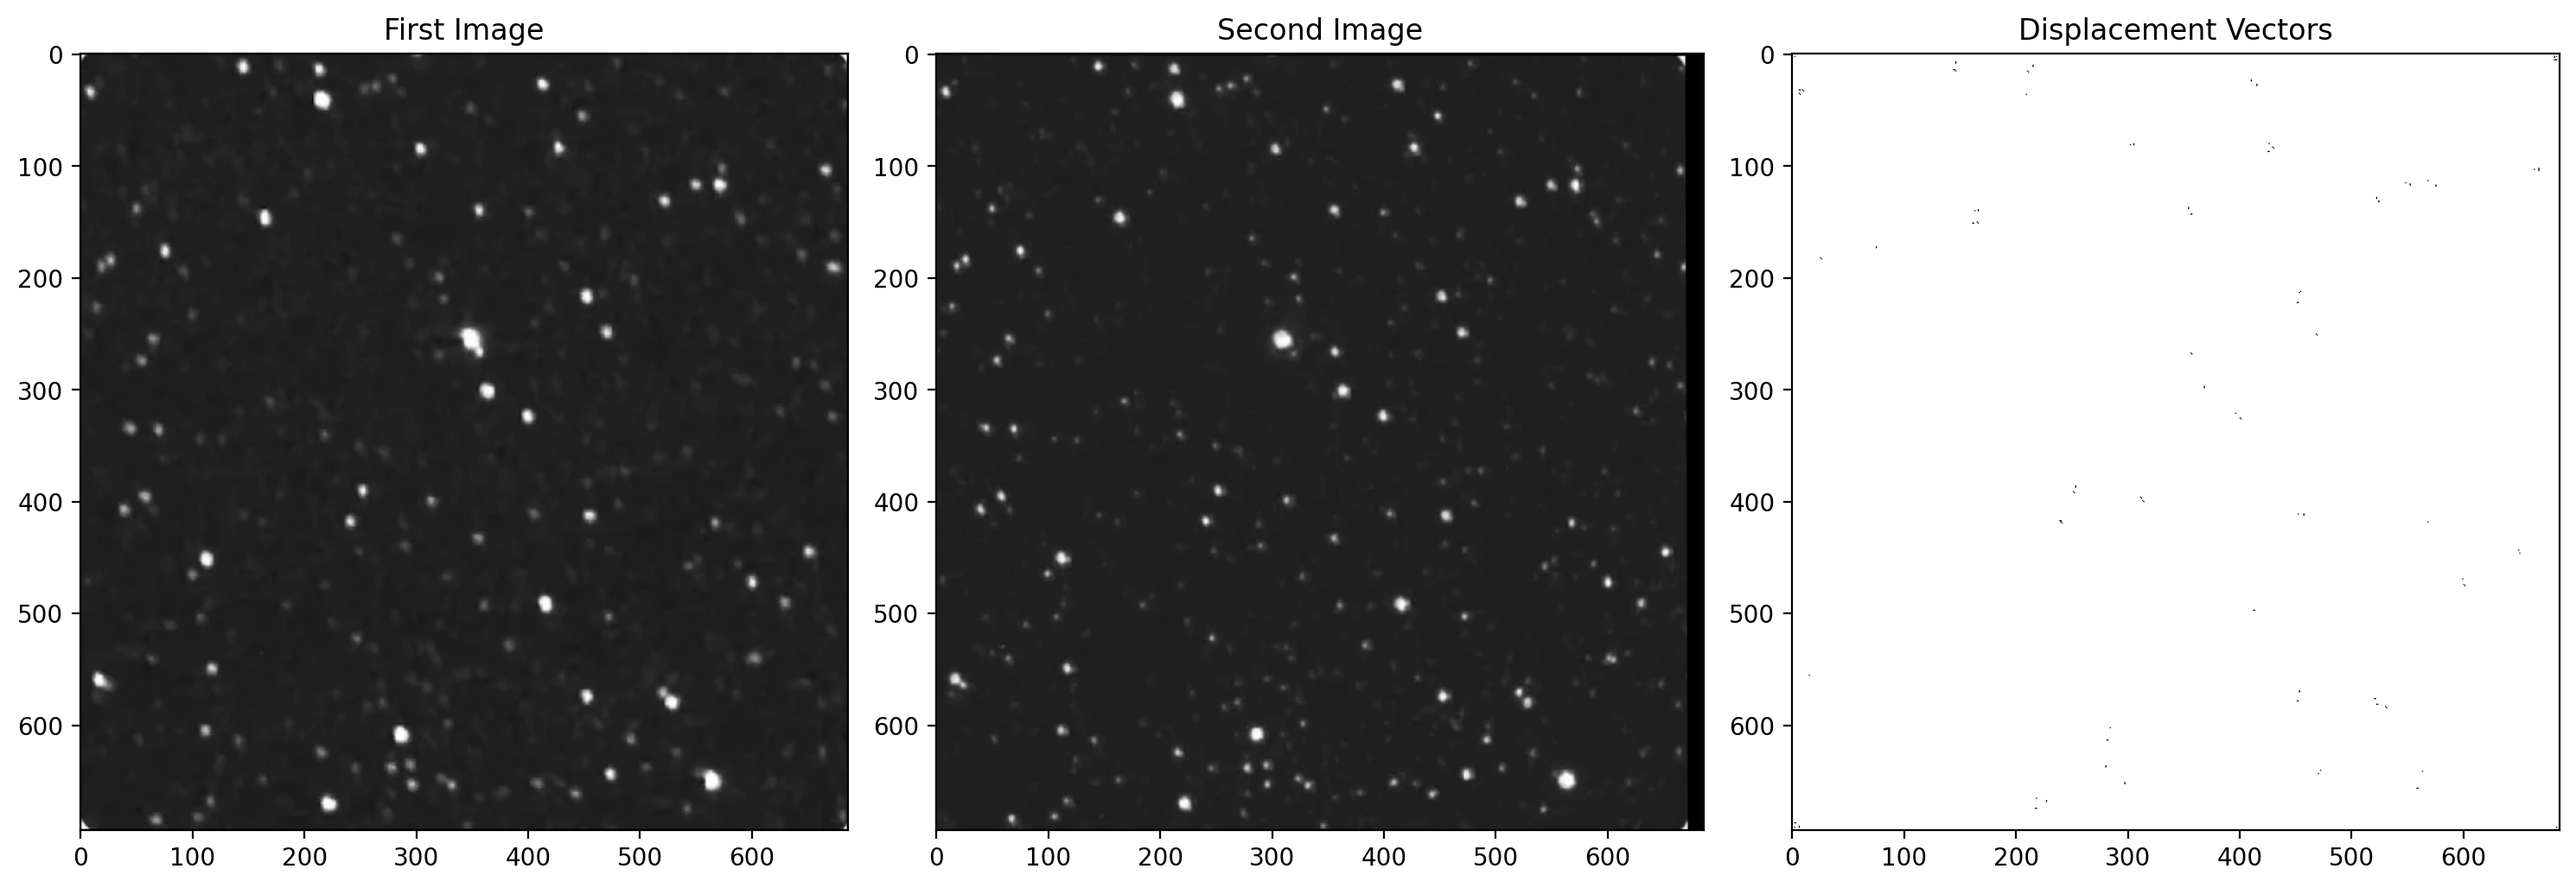
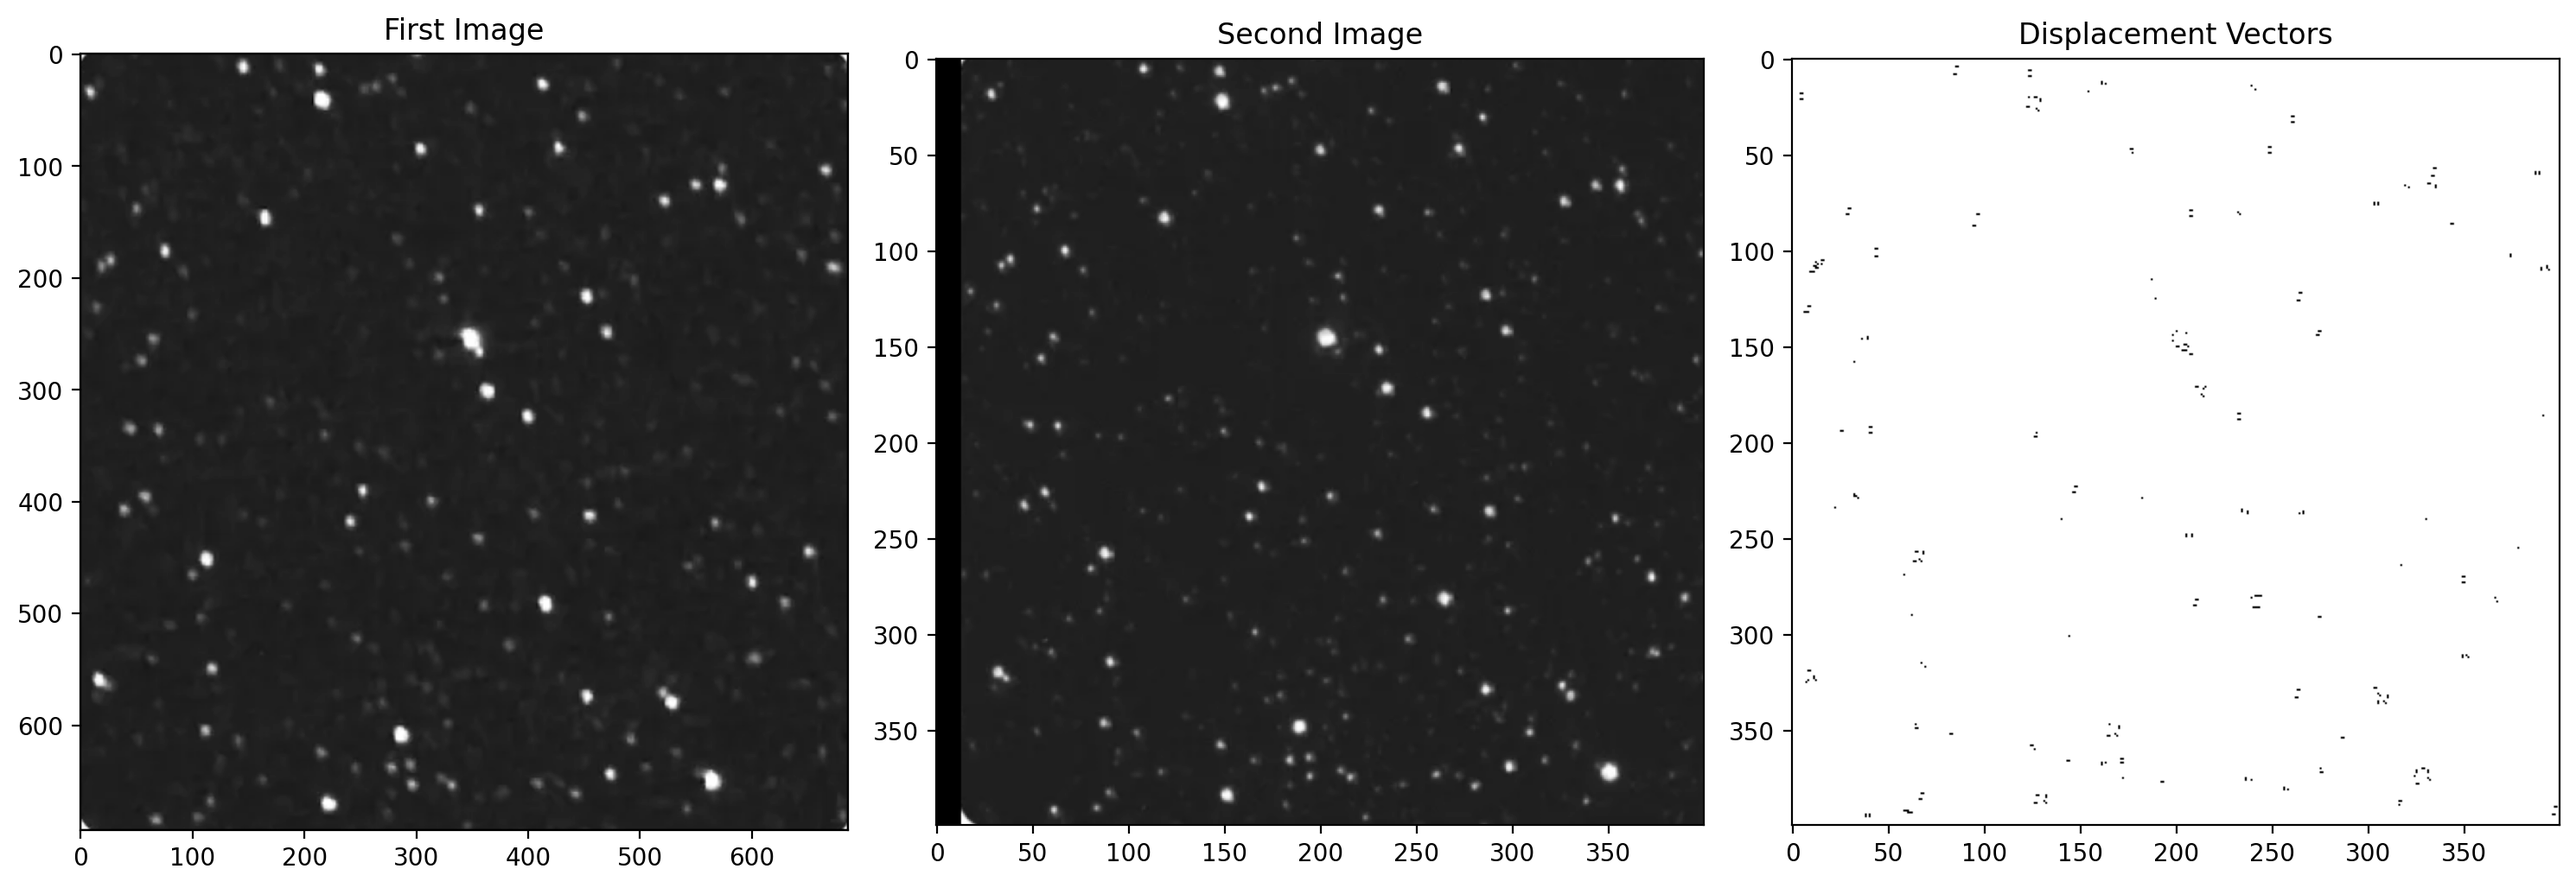
align image with user need

diff --git a/lucasKanade.py b/lucasKanade.py
@@ -2,45 +2,70 @@ import numpy as np
 import cv2
 import matplotlib.pyplot as plt
 
+global points_img1, points_img2
+points_img1, points_img2 = [], []
+
 def inRanges(coords, limits):
     x, y = coords
     X_limit, Y_limit = limits
     return 0 <= x and x <= X_limit and 0 <= y and y <= Y_limit
 
-def align_images(img1, img2):
-    # Ensure images are 3-channel (BGR) before conversion
-    if len(img1.shape) == 2:  # If grayscale, convert to 3-channel
-        img1 = cv2.cvtColor(img1, cv2.COLOR_GRAY2BGR)
-    if len(img2.shape) == 2:
-        img2 = cv2.cvtColor(img2, cv2.COLOR_GRAY2BGR)
+def reset_points():
+    global points_img1, points_img2
+    points_img1, points_img2 = [], []
 
-    # Convert images to grayscale
-    gray1 = cv2.cvtColor(img1, cv2.COLOR_BGR2GRAY)
-    gray2 = cv2.cvtColor(img2, cv2.COLOR_BGR2GRAY)
+def resize_with_aspect_ratio(image, width):
+    (h, w) = image.shape[:2]
+    aspect_ratio = width / w
+    new_dim = (width, int(h * aspect_ratio))
+    return cv2.resize(image, new_dim, interpolation=cv2.INTER_AREA)
 
-    # Detect ORB keypoints and descriptors
-    orb = cv2.ORB_create(5000)
-    kp1, des1 = orb.detectAndCompute(gray1, None)
-    kp2, des2 = orb.detectAndCompute(gray2, None)
+# Mouse click event handler
+def select_points(event, x, y, flags, param):
+    global points_img1, points_img2, selecting_img1
+    if event == cv2.EVENT_LBUTTONDOWN:
+        if selecting_img1:
+            points_img1.append((x, y))
+            print(f"Point selected in Image 1: {x}, {y}")
+        else:
+            points_img2.append((x, y))
+            print(f"Point selected in Image 2: {x}, {y}")
 
-    # Match features using FLANN Matcher
-    bf = cv2.BFMatcher(cv2.NORM_HAMMING, crossCheck=True)
-    matches = bf.match(des1, des2)
-    matches = sorted(matches, key=lambda x: x.distance)
-
-    # Extract the best matching points
-    src_pts = np.float32([kp1[m.queryIdx].pt for m in matches]).reshape(-1, 1, 2)
-    dst_pts = np.float32([kp2[m.trainIdx].pt for m in matches]).reshape(-1, 1, 2)
-
-    # Compute the homography matrix
-    H, _ = cv2.findHomography(dst_pts, src_pts, cv2.RANSAC, 10.0)
-
-    # Warp second image to align with the first
-    aligned_img2 = cv2.warpPerspective(img2, H, (img1.shape[1], img1.shape[0]))
-
+# Function to manually align images
+def align_images(img1, img2, width=600):
+    global selecting_img1
+    reset_points()
+    img1_resized = resize_with_aspect_ratio(img1, width)
+    img2_resized = resize_with_aspect_ratio(img2, width)
+    
+    selecting_img1 = True
+    cv2.imshow("Select a Point in Image 1", img1_resized)
+    cv2.setMouseCallback("Select a Point in Image 1", select_points)
+    cv2.waitKey(0)
+    cv2.destroyAllWindows()
+    
+    selecting_img1 = False
+    cv2.imshow("Select a Point in Image 2", img2_resized)
+    cv2.setMouseCallback("Select a Point in Image 2", select_points)
+    cv2.waitKey(0)
+    cv2.destroyAllWindows()
+    
+    if len(points_img1) < 1 or len(points_img2) < 1:
+        print("A single point is needed for alignment.")
+        return None
+    
+    p1 = np.array(points_img1[0]) * (img1.shape[1] / img1_resized.shape[1], img1.shape[0] / img1_resized.shape[0])
+    p2 = np.array(points_img2[0]) * (img2.shape[1] / img2_resized.shape[1], img2.shape[0] / img2_resized.shape[0])
+    
+    translation_vector = p1 - p2
+    translation_matrix = np.float32([[1, 0, translation_vector[0]], [0, 1, translation_vector[1]]])
+    aligned_img2 = cv2.warpAffine(img2, translation_matrix, (img1.shape[1], img1.shape[0]))
+    aligned_img2 = cv2.resize(aligned_img2, (400, 400))
     return aligned_img2
 
+
 def optical_flow(old_frame, new_frame, window_size, min_quality = 0.01):
+    old_frame = cv2.resize(old_frame, (400, 400))
     max_corners = 10000
     min_distance = 1
     feature_list = cv2.goodFeaturesToTrack(old_frame, max_corners, min_quality, min_distance)
@@ -56,17 +81,15 @@ def optical_flow(old_frame, new_frame, window_size, min_quality = 0.01):
     fx = cv2.filter2D(old_frame_norm, -1, kernel_x)
     fy = cv2.filter2D(old_frame_norm, -1, kernel_y)
     
-    # Fix: Calculate temporal gradient properly as the difference between frames
     ft = new_frame_norm - old_frame_norm
 
     u = np.zeros(old_frame.shape)
     v = np.zeros(new_frame.shape)
 
     for feature in feature_list:
-        j, i = feature.ravel()  # j is x (column), i is y (row)
+        j, i = feature.ravel()
         i, j = int(i), int(j)
         
-        # Check if the window is completely within image boundaries
         if i-w < 0 or i+w+1 > old_frame.shape[0] or j-w < 0 or j+w+1 > old_frame.shape[1]:
             continue
 
@@ -74,21 +97,17 @@ def optical_flow(old_frame, new_frame, window_size, min_quality = 0.01):
         I_y = fy[i-w:i+w+1, j-w:j+w+1].flatten()
         I_t = ft[i-w:i+w+1, j-w:j+w+1].flatten()
 
-        b = np.reshape(-I_t, (I_t.shape[0], 1))  # Negative temporal gradient for correct flow direction
+        b = np.reshape(-I_t, (I_t.shape[0], 1))
         A = np.vstack((I_x, I_y)).T
         
-        # Check if A is well-conditioned before solving
         if np.linalg.matrix_rank(A) < 2:
             continue
             
-        try:
-            U = np.matmul(np.linalg.pinv(A), b)
-            # Remove debugging print statement
-            u[i, j] = U[0][0]
-            v[i, j] = U[1][0]
-        except np.linalg.LinAlgError:
-            # Skip if matrix is singular or other numerical issues
-            continue
+    
+        U = np.matmul(np.linalg.pinv(A), b)
+        u[i, j] = U[0][0]
+        v[i, j] = U[1][0]
+        
 
     return (u, v)
 
@@ -97,14 +116,13 @@ def drawOnFrame(frame, U, V, output_file):
     
     height, width = U.shape
     
-    # Create a copy to avoid modifying the original
     result_frame = frame.copy()
     
     for i in range(height):
         for j in range(width):
-            u, v = V[i][j], U[i][j]  # Swap u and v to match OpenCV coordinate system
+            u, v = V[i][j], U[i][j]
 
-            if abs(u) > 0.1 or abs(v) > 0.1:  # Only draw significant movements
+            if abs(u) > 0.1 or abs(v) > 0.1:
                 end_j = int(round(j+u))
                 end_i = int(round(i+v))
                 
@@ -127,12 +145,11 @@ def drawSeperately(old_frame, new_frame, U, V, output_file):
     height, width = U.shape
     for i in range(height):
         for j in range(width):
-            # Fix: correct coordinate order for OpenCV (x,y) = (j,i)
-            start_point = (j, i)  # OpenCV uses (x,y) which is (column, row)
+            start_point = (j, i)
             
-            u, v = V[i][j], U[i][j]  # Swap u and v to match OpenCV coordinate system
+            u, v = V[i][j], U[i][j]
             
-            if abs(u) > 0.1 or abs(v) > 0.1:  # Only draw significant movements
+            if abs(u) > 0.1 or abs(v) > 0.1:
                 end_point = (int(j+u), int(i+v))
                 
                 if inRanges((end_point[1], end_point[0]), (height-1, width-1)):
@@ -153,7 +170,6 @@ def drawSeperately(old_frame, new_frame, U, V, output_file):
     figure.tight_layout()
     plt.savefig(output_file, bbox_inches="tight", dpi=200)
 
-# Main execution code
 if __name__ == "__main__":
     img1 = cv2.imread("parallexShift/img1.jpg")
     if img1 is None:
@@ -169,23 +185,19 @@ if __name__ == "__main__":
     
     img2_gray = cv2.cvtColor(img2, cv2.COLOR_BGR2GRAY)
 
-    # Align the second image to the first
     aligned_img2 = align_images(img1_gray, img2_gray)
     
-    # If aligned_img2 is BGR, convert to grayscale
     if len(aligned_img2.shape) == 3:
         aligned_img2_gray = cv2.cvtColor(aligned_img2, cv2.COLOR_BGR2GRAY)
     else:
         aligned_img2_gray = aligned_img2
 
-    # Calculate optical flow
-    U, V = optical_flow(img1_gray, aligned_img2_gray, 5, 0.05)  # Increased window size for better results
+    U, V = optical_flow(img1_gray, aligned_img2_gray, 5, 0.05)
 
-    # Visualize results
     aligned_img2_color = cv2.cvtColor(aligned_img2_gray, cv2.COLOR_GRAY2BGR)
     
-    # Create two visualizations
-    drawSeperately(img1_gray, aligned_img2_gray, U, V, "flow_comparison.png")
-    result = drawOnFrame(aligned_img2_color, U, V, 'flow_overlay.png')
+
+    drawSeperately(img1_gray, aligned_img2_gray, U, V, "parallexShift/flow_comparison.png")
+    result = drawOnFrame(aligned_img2_color, U, V, 'parallexShift/flow_overlay.png')
     
     print("Processing complete. Output saved to flow_comparison.png and flow_overlay.png")
